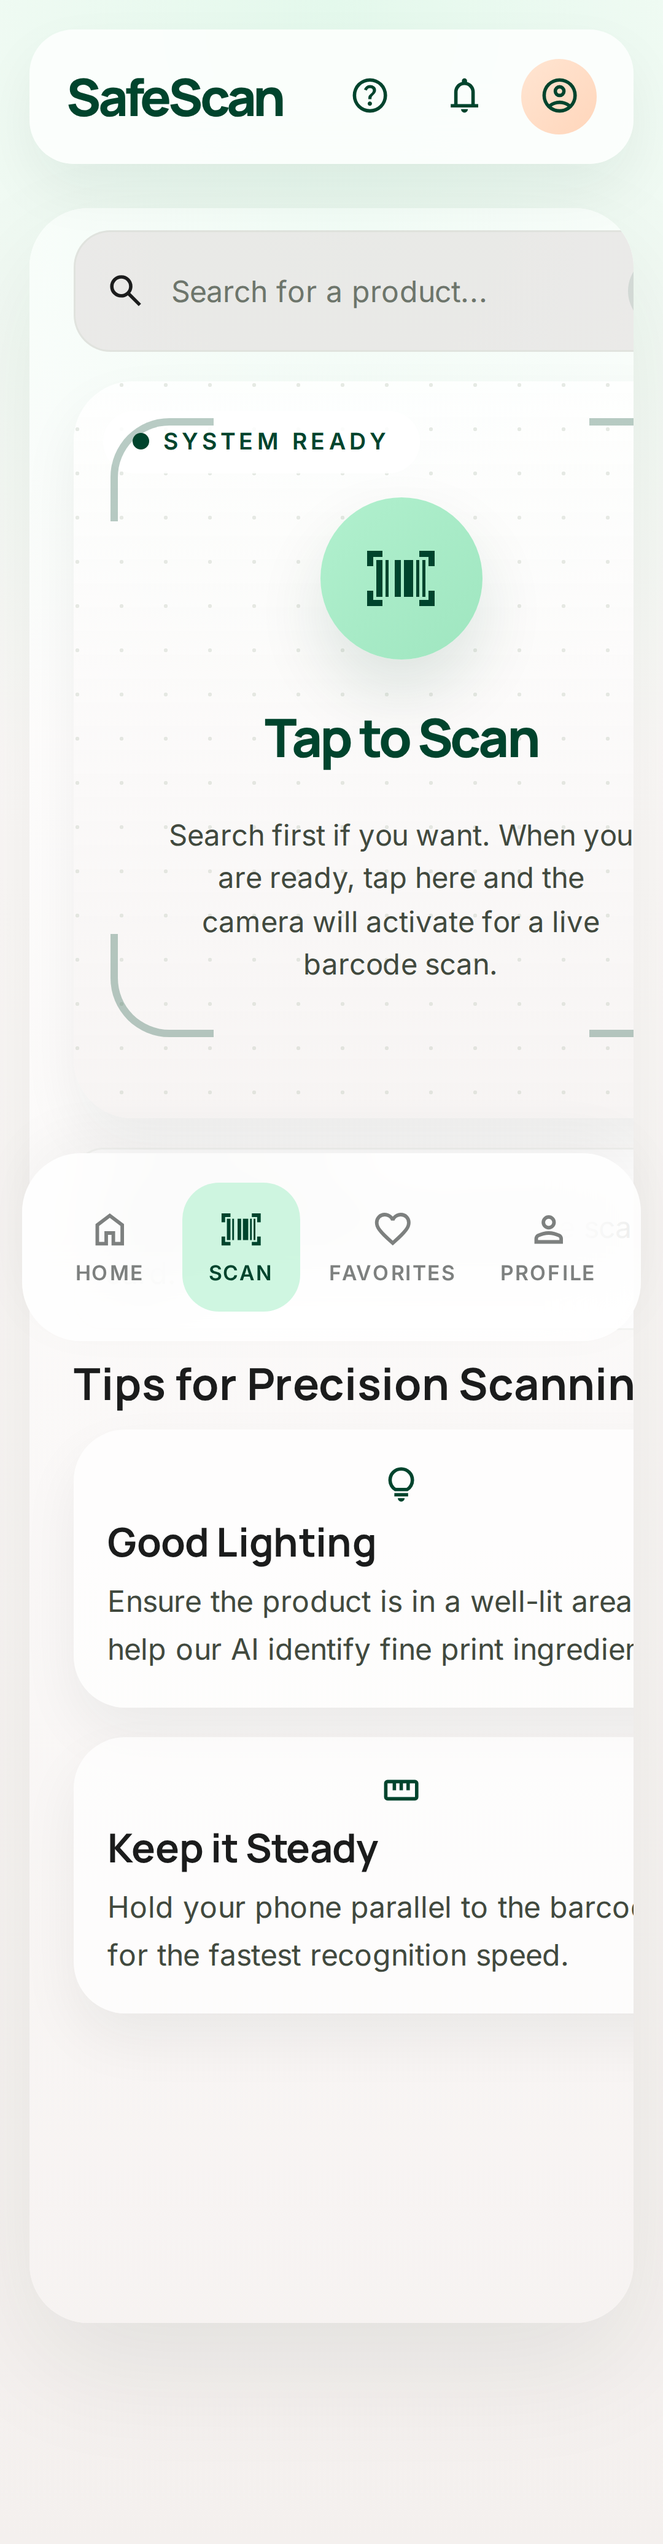
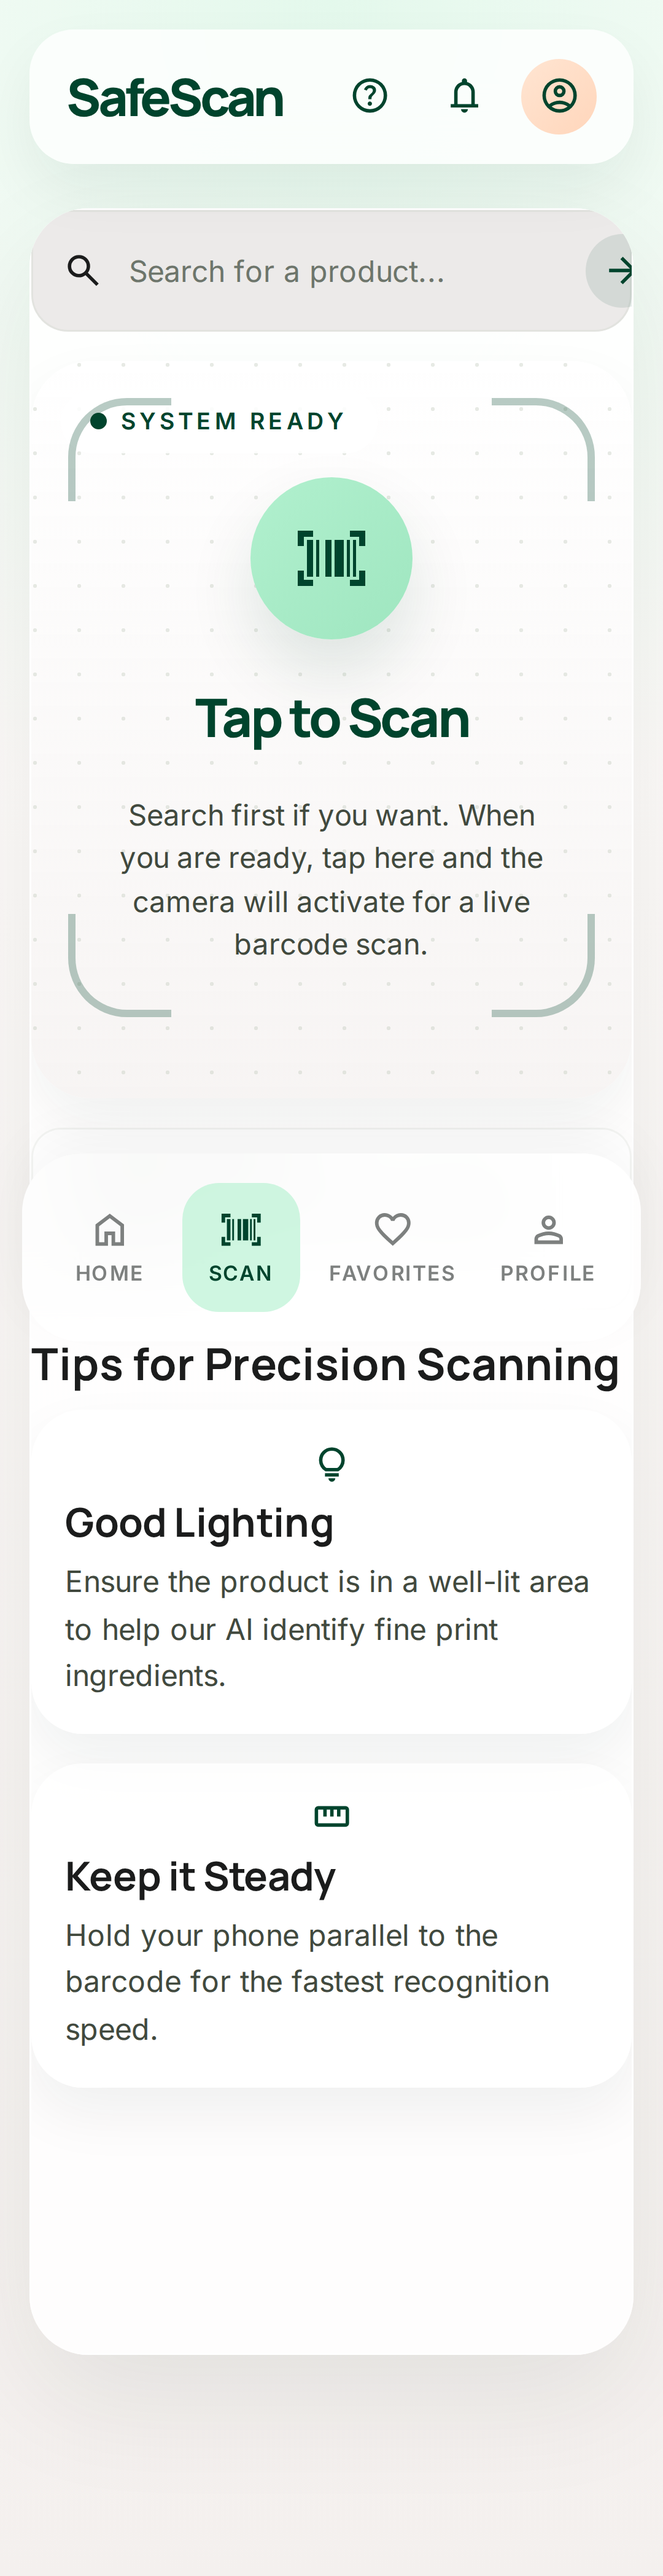
fix(scan): prevent horizontal overflow on /scan for small viewports; update Playwright S23 snapshots and add a11y heading

diff --git a/src/frontend/src/index.css b/src/frontend/src/index.css
@@ -599,22 +599,41 @@ button {
   /* allow children to size responsively inside the padded panel
      avoid forcing 100% which can cause overflow when the panel has padding */
   width: auto;
-  /* ensure children respect the panel's horizontal padding (2 * 1.5rem) */
-  max-width: calc(100% - 3rem);
+  /* ensure children respect the panel's horizontal padding */
+  max-width: 100%;
   box-sizing: border-box;
   margin-inline: 0;
 }
 
-/* Tighten bounds for known wide elements inside the scanner panel */
+/* When scanner-panel is used as a content-card child, avoid double padding from both
+   the .content-card and .scanner-panel. Use the content-card's padding and keep a
+   padded bottom for action area spacing. */
+.content-card.scanner-panel {
+  padding-top: 0;
+  padding-right: 0;
+  padding-left: 0;
+  padding-bottom: 9rem; /* preserve bottom spacing */
+}
+
+.content-card.scanner-panel > * {
+  max-width: 100%;
+}
+
+/* Tighten bounds for known wide elements inside the scanner panel
+   and allow grid/flex children to shrink below their intrinsic min-width
+   so padding + internal content don't force horizontal overflow. */
 .scanner-panel .search-bar,
 .scanner-panel .scanner-stage,
 .scanner-panel .scanner-status,
 .scanner-panel .scanner-tips,
 .scanner-panel .scanner-launch,
-.scanner-panel .scanner-launch-shell {
+.scanner-panel .scanner-launch-shell,
+.scanner-panel .scanner-tips__grid,
+.scanner-panel .scanner-tip-card {
   max-width: 100%;
   box-sizing: border-box;
   width: 100%;
+  min-width: 0;
 }
 
 /* Narrow viewport fixes: ensure the search bar respects the panel padding and does not overflow */

diff --git a/src/frontend/e2e/overflow-debug.spec.ts b/src/frontend/e2e/overflow-debug.spec.ts
@@ -48,6 +48,34 @@ test('detect horizontal overflow on /scan', async ({ page }) => {
   console.log('BOUNDS_REPORT_START')
   console.log(JSON.stringify(rects, null, 2))
   console.log('BOUNDS_REPORT_END')
+  
+  const debugStyles = await page.evaluate(() => {
+    const pick = (sel: string) => document.querySelector(sel) as HTMLElement | null
+    const elNames = ['.app-shell', '.content-card', '.scanner-panel', '.search-bar']
+    return elNames.map((s) => {
+      const e = pick(s)
+      if (!e) return { selector: s, exists: false }
+      const cs = window.getComputedStyle(e)
+      return {
+        selector: s,
+        exists: true,
+        rect: e.getBoundingClientRect(),
+        offsetWidth: e.offsetWidth,
+        clientWidth: e.clientWidth,
+        scrollWidth: e.scrollWidth,
+        computedWidth: cs.width,
+        paddingLeft: cs.paddingLeft,
+        paddingRight: cs.paddingRight,
+        marginLeft: cs.marginLeft,
+        marginRight: cs.marginRight,
+        boxSizing: cs.boxSizing,
+      }
+    })
+  })
+
+  console.log('STYLE_DEBUG_START')
+  console.log(JSON.stringify(debugStyles, null, 2))
+  console.log('STYLE_DEBUG_END')
 
   console.log('OVERFLOW_REPORT_START')
   console.log(JSON.stringify(overflow, null, 2))

diff --git a/src/frontend/src/features/scanner/ScanPage.tsx b/src/frontend/src/features/scanner/ScanPage.tsx
@@ -85,7 +85,6 @@ export function ScanPage() {
             </span>
           </button>
         </form>
-
         {!isScannerActive ? <h1 className="sr-only">Scan or search for a product</h1> : null}
 
         <section className="scanner-stage">
